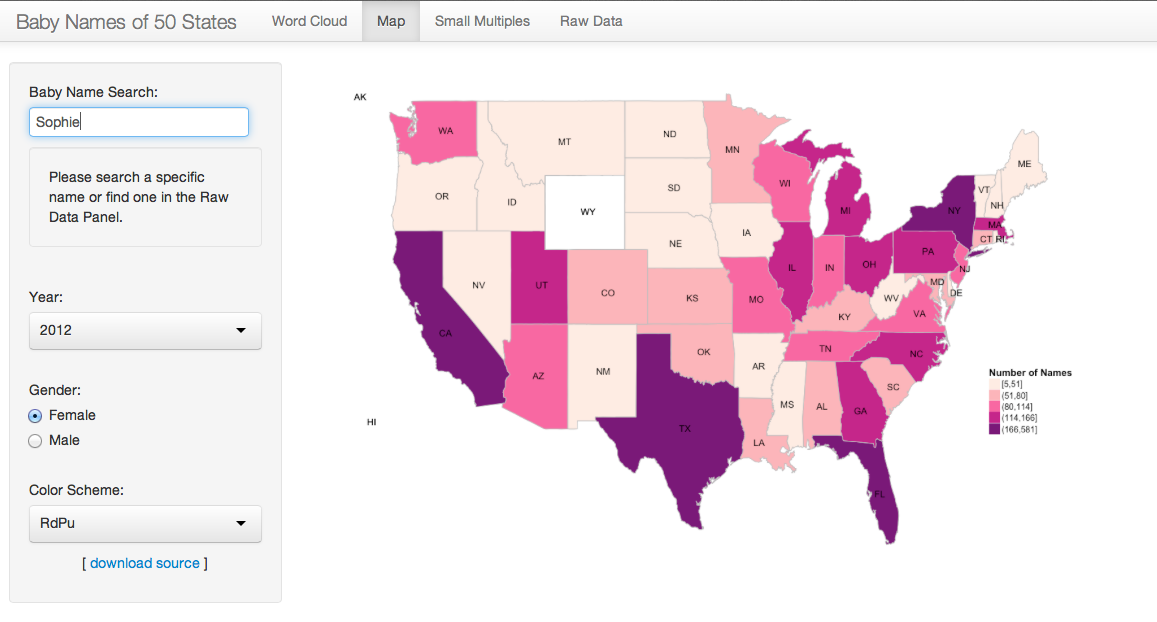
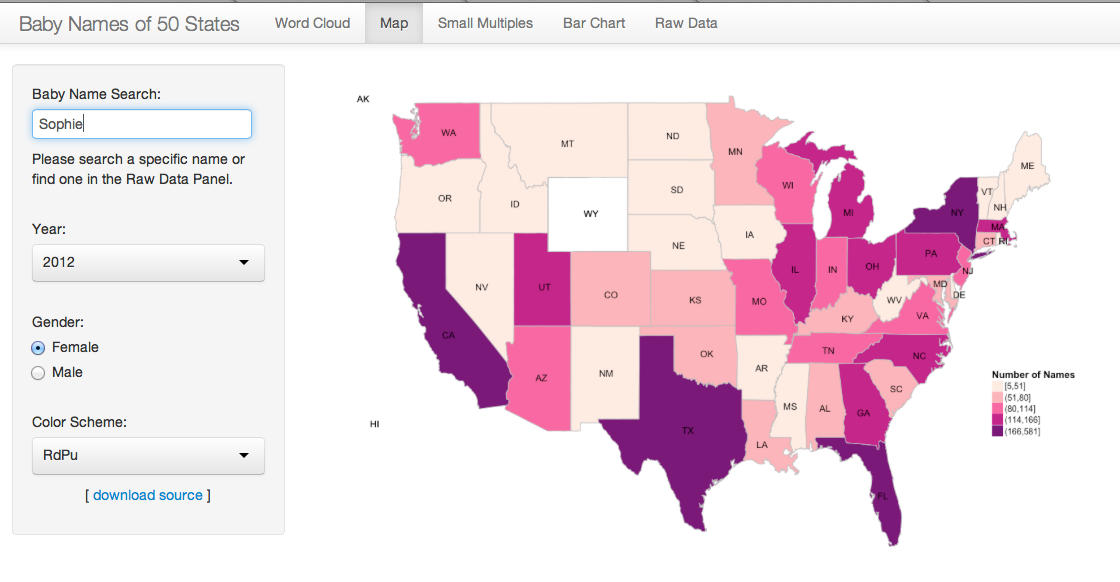
uploading project

diff --git a/Visualize_Baby_Names/README.md b/Visualize_Baby_Names/README.md
@@ -30,43 +30,123 @@ This will start the `shiny` app. See below for details on how to interact with t
 
 ## Data Set ##
 
-In this project, I visualized the top 1,000 names of baby born during 2002 and 2012 in U.S 50 States. The dataset I obtained was from the Official Social Security Website `http://www.ssa.gov/OACT/babynames/limits.html`. The original data was stored in `TXT` files with each file storing baby name frequency from 1910 to 2012. Due to the storage limitation of my GitHub repository, I used only data from 2002 to 2012 for this visualization. 
+In this project, I visualized the top 1,000 names of baby born during 2002 and 2012 in 50 States in U.S. The dataset I obtained was from the Official Social Security Website `http://www.ssa.gov/OACT/babynames/limits.html`. The original data were stored in `TXT` files with each file storing frequency of baby name from 1910 to 2012. Due to the storage limitation of my GitHub repository, I only used data from 2002 to 2012 for this visualization. 
 
-Except merging the data from `TXT` files to a `csv` file, I also combined the State Divisions (New England, Middle Atlantic, South Atlantic, East South Central, West South Central, East North Central, West North Central, Mountain, and Pacific) from the `US State Facts and Figures` dataset stored in R. 
+Except merging the data from `TXT` files into a `csv` file, I also combined the State Divisions (New England, Middle Atlantic, South Atlantic, East South Central, West South Central, East North Central, West North Central, Mountain, and Pacific) from the `US State Facts and Figures` dataset stored in R. 
 
-In addition, I merged the longitude and latitude of each state to my dataset to visualize the baby name frequency in the U.S map. Please find the further discussion below.
+In addition, I merged the longitude and latitude of each state to my dataset to visualize the frequency of baby name in the U.S map. Please find the further discussion below.
 
-After extracting and combining data from various sources, I had the dataset with 988,973 rows and 7 columns (over 1 million rows and 12 columns in the dataset using for map visualization).
+After extracting and combining data from various sources, I had the dataset with 988,973 rows and 7 columns for my visualization. The 7 columns include: `State` represents the state abbreviation, `region` represents the state name, `Division` represents the state division, `Sex` represents baby's gender, `Year` represents which year the name was collected, `Name` represents baby name, and `Number` represents the name frequency. Also, an extended dataset containing over 1 million rows and 12 columns is prepared for map visualization. 
 
-## Interactivity ##
+## Discussion ##
 
-There are four panels in the shiny app. They are `Word Cloud`, `Map`, `Small Multiples`, and `Raw Data`. Each panel has its own filters and control options.
+In general, I chose to implement four distinct visualizations of this baby names data set and integrated all four visualizations into a shiny app. There are five panels in the shiny app. They are `Word Cloud`, `Map`, `Small Multiples`, `Bar Chart` and `Raw Data`. Each panel has its own filters and control options. Please find the detailed discussions about each technique as bellows.
 
-### Word Cloud ###
+## Panel 1: Word Cloud ##
 
-In the `Word Cloud` panel, a user has the option to visualize the word cloud of baby names in various states, years, and genders. Also, a user could choose the number of words he would like to view in the cloud and download the source code from my GitHub repository through the `download source` link.
+### Technique ###
 
-By viewing this word cloud, a user could easily find out which names are the most frequently used in girls/boys in different states or in the 50 states. For example, `Daniel`, `Jacob`, `Matthew` and `Ethan` are the most frequently used boy names in the U.S. as showing in the following graph.
+The first technique I chose to implement is Word Cloud. Since the data set includes top 1,000 baby names in 50 states, word cloud is a wonderful visualization for these names because it has a great readability of words in the cloud and is easy to provide users a general impression about which names are the most popular ones. 
 
+To get the appropriate data for visualization, I mapped the data through the following steps:
+
+1. Filtered the data by `Sex` and `State` to obtain a subset of data.
+2. Aggregated the `Number` by `Sex`, `Year` and `Name`.
+
+After mapping the data, I obtained a subset of data containing 4 columns: `Number`, `Sex`, `Year` and `Name`. Then I visualized the baby names by their frequency in the word cloud. 
+
+### Interactivity ###
+
+In the `Word Cloud` panel, a user has the option to visualize the word cloud of baby names. Specifically, three filters including state, gender and year allow a user to focus on his interested subset of data. Also, a user can vary the number of words he would like to view within the cloud. In addition, the source code can be downloaded from my GitHub repository through the `download source` link.
+
+By viewing this word cloud, a user could easily find out which names are the most frequently used in different states or across the country within a specific year. For example, `Mason`, `William`, `Ethan` and `Jacob` are the most frequently used boy names in the U.S. as showing in the following graph.
 ![word_cloud](word_cloud.png)
 
-### Map ###
+## Panel 2: Map ##
 
-In the `Map` panel, a user could visualize the name density in the U.S. map. By searching a specific baby name in the search box, the plot shows the density of that name in the map. Also, the user has the option to choose the year, gender and color pallet he wants to see in the map. 
+### Technique ###
 
-In order to visualize the name density in a map, I need to merge the longitude and latitude of each state to the dataset. Since I have a very large dataset, this step takes a very long time to process, I chose to filter the data by name first and then created a data frame with original data and the map data. The map data with longitude, latitude, group and order is extracted using `map_data` function in `ggplot2`.  
+The second technique I chose to implement is Map. Since the state information is included in the data set, map is a powerful implementation to visualize the frequency of name.
+
+To get the appropriate data for visualization, I mapped the data through the following steps:
+
+1. filtered the data by `Name`, `Year` and `Gender` to obtain a subset of data. When filtering by name, the name has to be chosen as a specific baby name already existed in the dataset rather than a random name starting with arbitrary characters.
+
+2. merged the subset of data obtained from the first step with a map data, which includes state's longitude, latitude, group, order, region and sub region, by `region`. The map data was obtained using `map_data` function in `ggplot2`. Since I have a very large dataset, this step takes a very long time to process. Therefore, I only performed the merging on the subset of data. 
+
+After mapping the data, I obtained a subset of data containing 12 columns: `State`, `region`, `Division`, `Sex`, `Year`, `Name`, `Number`, `long`, `lat`, `group`, `order` and `subregion`. Then I split the frequency of name into 5 intervals and visualized density of a specific name by its geographic location. 
+
+### Interactivity ###
+
+In the `Map` panel, a user could search a specific baby name in the search box, which is not case non-sensitive. Searching `Sophie` and `sophie` would give the same result in this case. Also, a hint under the search box is provided to remind him to search a specific name or find one in the `Raw Data` panel. Also, the user has the option to filter the visualization by year and gender, and view the map with different color pallets. As same as other panels, the user could download the source code from my GitHub repository through the `download source` link.
+
+With this visualization, a user can explore the relationship between the statistics of baby name and their geographical information. For example, a user could find out girls in which state were named as `Sophie` more frequently than the other states. In this particular example, the name `Sophie`has larger density in California, Texas, Florida, and New York in 2012. Also, there is no girl was named as `Sophie` in Wyoming in this year.
 
 ![map](map.png)
 
-### Small Multiples ###
+## Small Multiples ##
 
-In the `Small Multiples` panel, a user could have a better understand of the number of baby with top names in various states. I provided the `Radar Chart` for each state. The user could also choose which state division he would like to show in the graph. For example, in the West South Central, there are four states within this division. Texas has the largest number of baby with top names over the 10 years. Also, the number of babies are very consistent for all four states. 
+### Technique ###
+
+The third technique I chose to implement is Small Multiples. Each chart in this small multiples plot is a radar chart of each state. By viewing this plot, a user could have a better understanding of the number of baby with most frequent names in various states. 
+
+To get the appropriate data for visualization, I mapped the data through the following steps:
+
+1. Filtered the data by `Name` and `Gender` to obtain a subset of data. 
+2. Aggregated the `Number` by `State` and `Year`.
+
+After mapping the data, I obtained a subset of data with 3 columns: `State`, `Year` and `Number`. Then I visualized the radar chart for each state and wrap the charts by state division.
+
+In the radar chart, the y-axis is the total number of babies who have these top 1,000 ranked names and the x-axis or the axis in the circle is the year. 
+
+### Interactivity ###
+
+In the `Small Multiples` panel, a user has the option to choose which state division and gender he would like to view in the graph. By default, he will see the radar charts of 50 states for both girls and boys. As same as other panels, the user could download the source code from my GitHub repository through the `download source` link.
+
+For example, in the West South Central division, there are four states within this division. Texas has the largest number of baby with top names over the 10 years. Also, the numbers of babies are very consistent for all four states. 
 
 ![small](small.png)
 
-### Raw Data ###
+## Bar Chart ##
 
-In the `Raw Data` panel, a user could search, filter and sort the raw data. Since the `Map` panel requires a user to search a specific baby name, it is good to have this raw data table provided here to allow user to search a specific name if he doesn't have one in his mind. This table lists 25 results on each page in default. The user could view the data on the next page by clicking on the `Next` button or view more results on each page by choosing the number of records per page. 
+### Technique ###
+
+The Fourth technique I chose to implement is Bar Chart. In the small multiples above, a user had detailed information about the total number of babies with top names of each state over 10 years in different divisions. In this bar chart, he would have a even better understanding about the total number of babies with top names in different divisions in each year. 
+
+To get the right data for visualization, I mapped the data in the following steps:
+
+1. Filtered the data by `Year` to obtain a subset of data. 
+2. Aggregated the `Number` by `Division`.
+
+After mapping the data, I obtained a subset of data with 2 columns: `Division` and `Number`. Then I visualized the bar chart of total number of babies with top names for 9 state divisions.
+
+### Interactivity ###
+
+In the `Bar Chart` panel, a user has the option to choose which year he would like to view the total number of babies of 9 different divisions. Also, he could choose to view the bars in an alphabetical order or sorted order by name frequency. As same as other panels, the user could download the source code from my GitHub repository through the `download source` link.
+
+For example, when sorting the bars by name frequency, the user could realize the order of bars in the plot has been changed and find out the South Atlantic division has the largest number of babies with top names among all nine divisions in 2012. 
+
+![bar](bar.png)
+
+## Raw Data ##
+
+### Technique ###
+
+There are two purposes for showing the raw data here. First, a user could search a specific baby name from this table if he doesn't come up with one to visualize it in the `Map` panel. Second, the user could have a good understanding about what data he is visualizing. 
+
+To get the appropriate data for visualization, I mapped the data through the following steps:
+
+1. Filtered the data by `Name` to obtain a subset of data. Different to the search box in the `Map` panel, here the user could search names starting with certain characters. 
+
+2. Subset the data obtained in the first step above in various year ranges.
+
+After mapping the data, I obtained a subset of data with 7 columns: `State`, `region`, `Division`, `Sex`, `Year`, `Name` and `Number`.
+
+### Interactivity ###
+
+In the `Raw Data` panel, a user could search, filter and sort the raw data. In the search box, a user could search baby names starting with certain characters. By moving the slide bars, he could adjust year ranges for searching the data. There are also other search boxes and filter bars in the table to allow user performing various filters. 
+
+By default, this table lists 25 results on each page in default. The user could view the data on the next page by clicking on the `Next` button or view more results on each page by choosing the number of records per page. 
 
 ![raw_data](raw_data.png)
 
